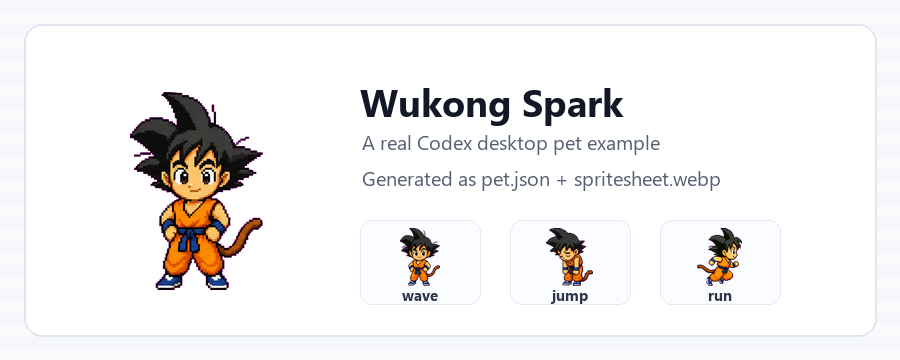
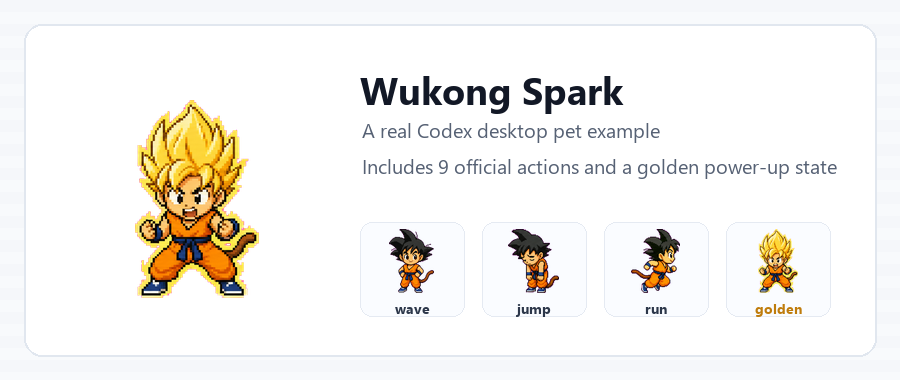
Add Wukong golden power-up showcase

diff --git a/examples/wukong-spark/README.md b/examples/wukong-spark/README.md
@@ -21,6 +21,14 @@ The sprite sheet follows the official Codex pet layout: 9 actions x 8 frames.
 
 ![Wukong Spark waving](../../assets/examples/wukong-spark/waving.gif)
 
+## Golden Power-Up
+
+The sprite sheet also includes a temporary golden-hair power-up state.
+
+![Wukong Spark golden power-up](../../assets/examples/wukong-spark/golden-power-up.png)
+
+![Wukong Spark golden power-up animation](../../assets/examples/wukong-spark/golden-power-up.gif)
+
 ## Pet Metadata
 
 ```json
@@ -36,5 +44,5 @@ The sprite sheet follows the official Codex pet layout: 9 actions x 8 frames.
 
 - A finished pet is small and portable.
 - Codex reads `pet.json` and `spritesheet.webp`.
-- The director workflow should help users lock the character first, then produce the 9 official action rows.
+- The director workflow should help users lock the character first, then produce the 9 official action rows and any special frames inside those rows.
 - README screenshots can use generated preview assets, while the example folder keeps the real production file.

diff --git a/README.md b/README.md
@@ -260,10 +260,14 @@ Codex pets 目录：Codex 识别并加载宠物
 
 ### 真实案例：Wukong Spark
 
-`Wukong Spark` 是一个已经能被 Codex 桌面端加载的真实宠物包，不是概念图。它包含标准的 `pet.json` 和 `spritesheet.webp`，并按 Codex 官方格式整理为 9 个动作、每个动作 8 帧。
+`Wukong Spark` 是一个已经能被 Codex 桌面端加载的真实宠物包，不是概念图。它包含标准的 `pet.json` 和 `spritesheet.webp`，并按 Codex 官方格式整理为 9 个动作、每个动作 8 帧，其中还包含小悟空头发变成金色的爆气状态。
 
 <p align="center">
   <img src="assets/examples/wukong-spark/waving.gif" alt="Wukong Spark waving animation" width="160">
+</p>
+
+<p align="center">
+  <img src="assets/examples/wukong-spark/golden-power-up.png" alt="Wukong Spark golden power-up state" width="620">
 </p>
 
 <p align="center">

diff --git a/docs/README.en.md b/docs/README.en.md
@@ -179,7 +179,7 @@ I have a reference image. Turn it into an official Codex desktop pet.
 
 ## Example
 
-See [../examples/wukong-spark](../examples/wukong-spark) for a real generated Codex desktop pet package. It contains the actual `pet.json` and `spritesheet.webp` files Codex can load.
+See [../examples/wukong-spark](../examples/wukong-spark) for a real generated Codex desktop pet package. It contains the actual `pet.json` and `spritesheet.webp` files Codex can load, including a golden-hair power-up state.
 
 See [../examples/blue-robot-cat](../examples/blue-robot-cat) for a complete sample brief, preview card, and action prompt notes.
 

diff --git a/docs/PUBLISHING.md b/docs/PUBLISHING.md
@@ -65,7 +65,7 @@ The package is already prepared with:
 
 For a beginner-friendly release:
 
-1. Create a tag, such as `v0.4.6`.
+1. Create a tag, such as `v0.4.7`.
 2. Create a GitHub Release from that tag.
 3. Tell Windows users to download the source ZIP and double-click `install.cmd`.
 4. Tell Codex users to run the GitHub project installer so both `codex-pet-director` and `create-pet` are installed.
@@ -73,7 +73,7 @@ For a beginner-friendly release:
 Release title:
 
 ```text
-Codex Pet Director v0.4.6
+Codex Pet Director v0.4.7
 ```
 
 Short release description:
